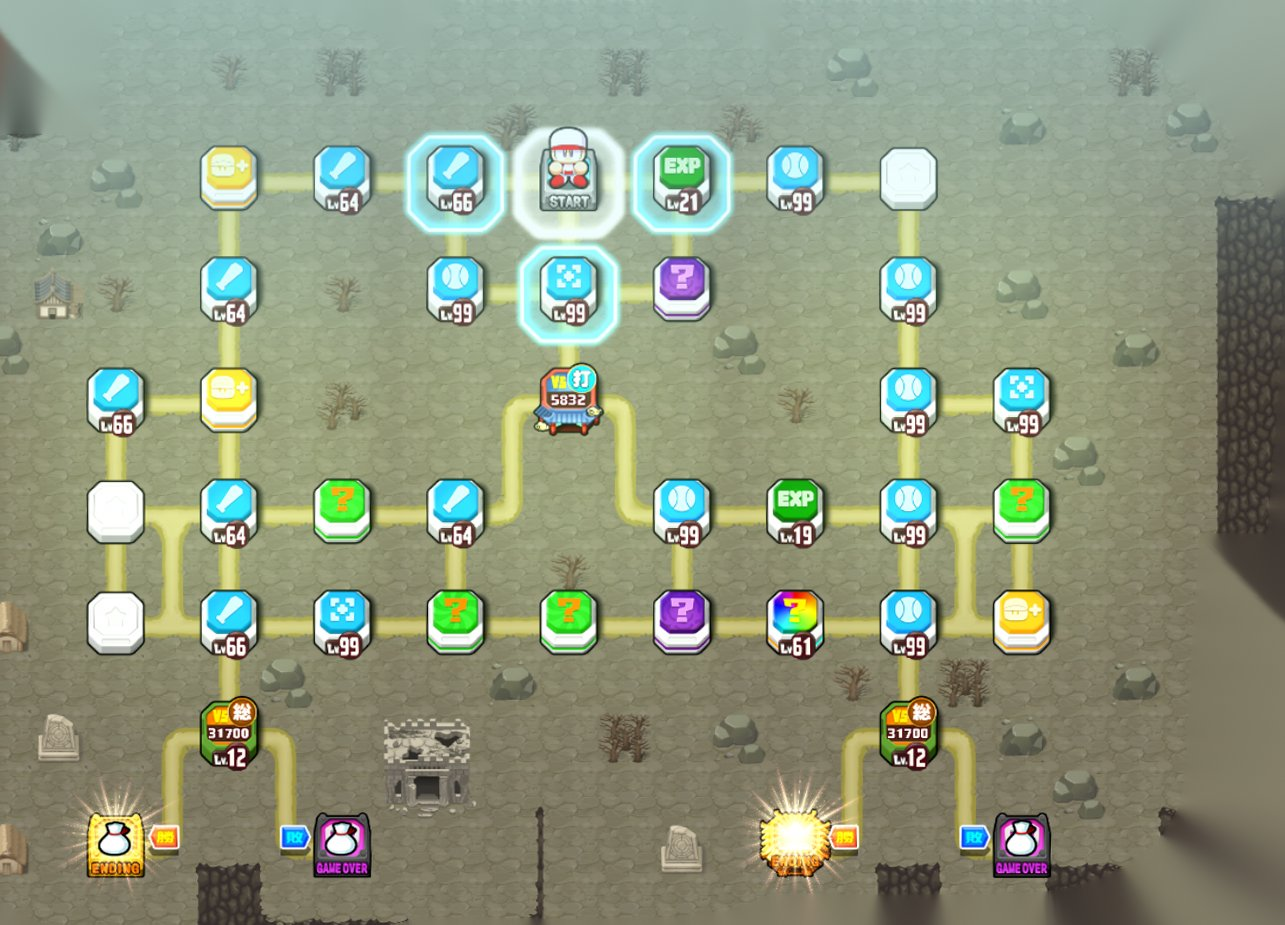
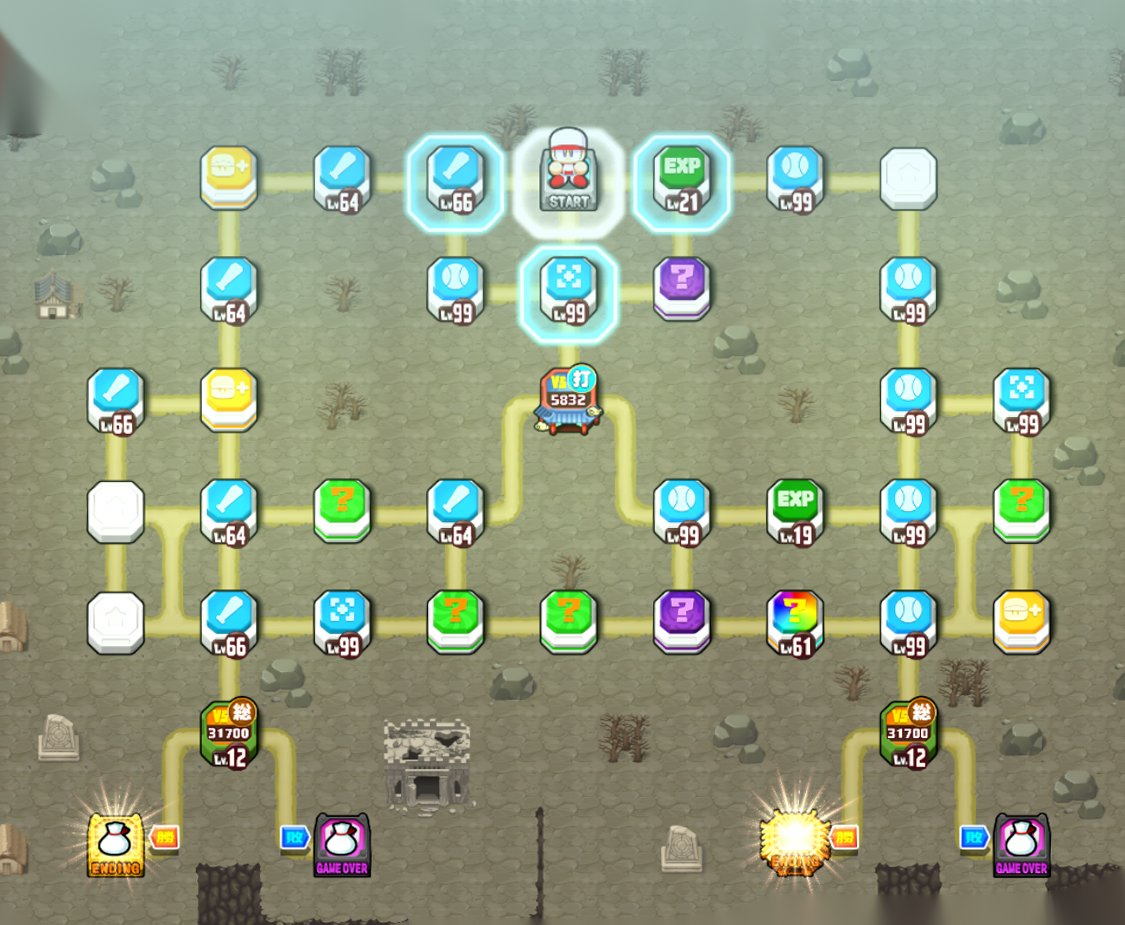
⑲道中3 周回：エリア3の画像の右側を切り取り
Claude-Session: https://claude.ai/code/session_019YJeT1QLw94f9KNRLB6odh

diff --git a/src/pages/pawaque-saikyuki-q19.html b/src/pages/pawaque-saikyuki-q19.html
@@ -100,7 +100,7 @@ noindex: yes
   <!-- エリア2のマップ画像待ち -->
 
   <h2 id="area3">エリア3</h2>
-  <img class="pq-img" src="{{root}}img/pawaque/saikyuki_q19_area3.jpg" alt="⑲道中3 エリア3の全体" width="1285" height="925" loading="lazy">
+  <img class="pq-img" src="{{root}}img/pawaque/saikyuki_q19_area3.jpg" alt="⑲道中3 エリア3の全体" width="1125" height="925" loading="lazy">
 
   <!-- SKNAV:START -->
   <section class="sk-nav sk-nav-btm" aria-label="西球記の関連ページ">

diff --git a/docs/pawaque/saikyuki/q19/index.html b/docs/pawaque/saikyuki/q19/index.html
@@ -148,7 +148,7 @@
   <!-- エリア2のマップ画像待ち -->
 
   <h2 id="area3">エリア3</h2>
-  <img class="pq-img" src="../../../img/pawaque/saikyuki_q19_area3.jpg" alt="⑲道中3 エリア3の全体" width="1285" height="925" loading="lazy">
+  <img class="pq-img" src="../../../img/pawaque/saikyuki_q19_area3.jpg" alt="⑲道中3 エリア3の全体" width="1125" height="925" loading="lazy">
 
   <!-- SKNAV:START -->
   <section class="sk-nav sk-nav-btm" aria-label="西球記の関連ページ">
